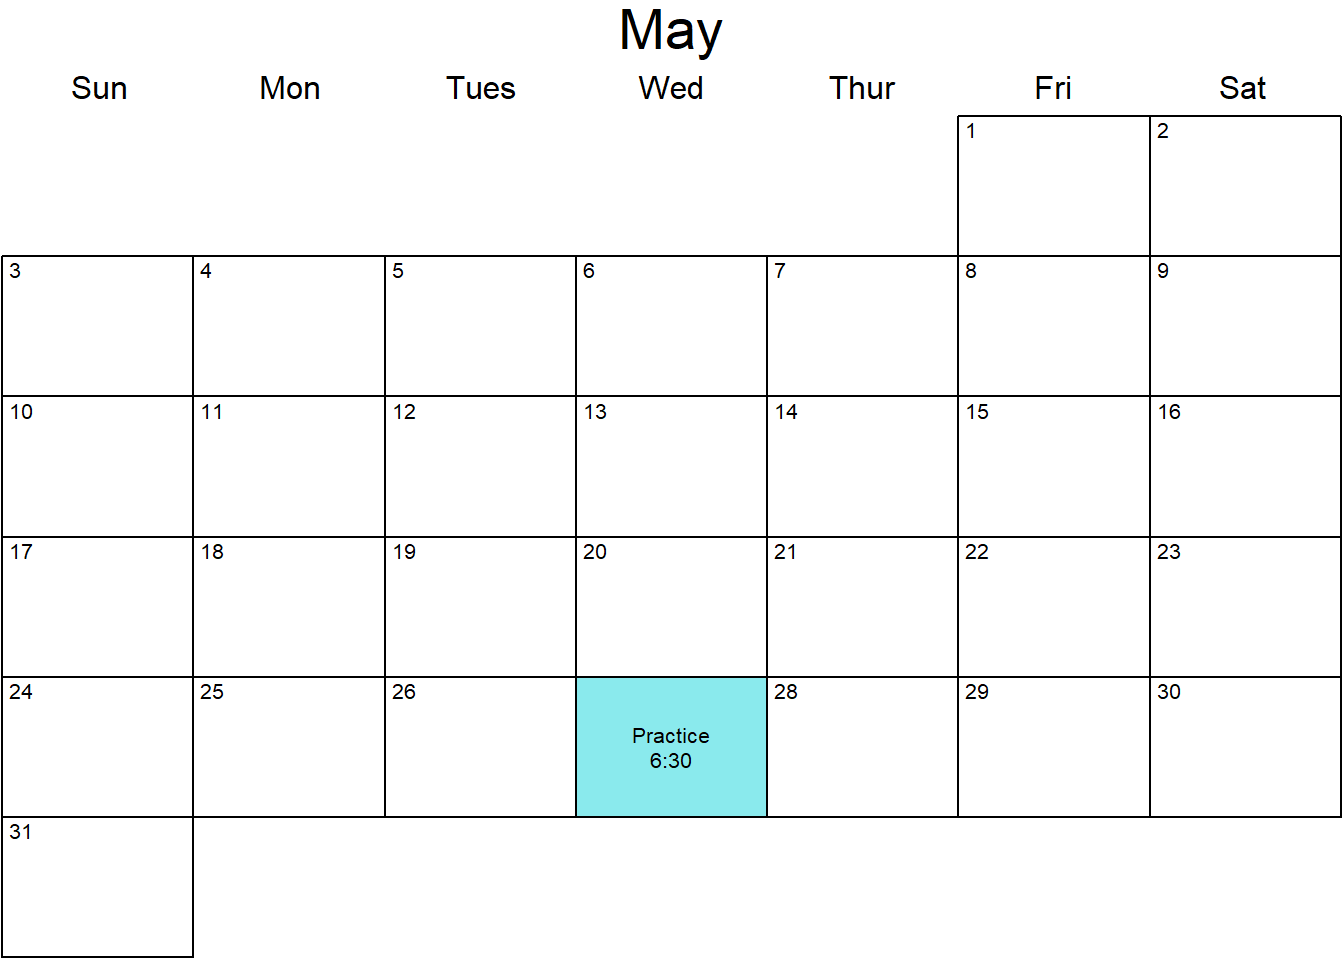
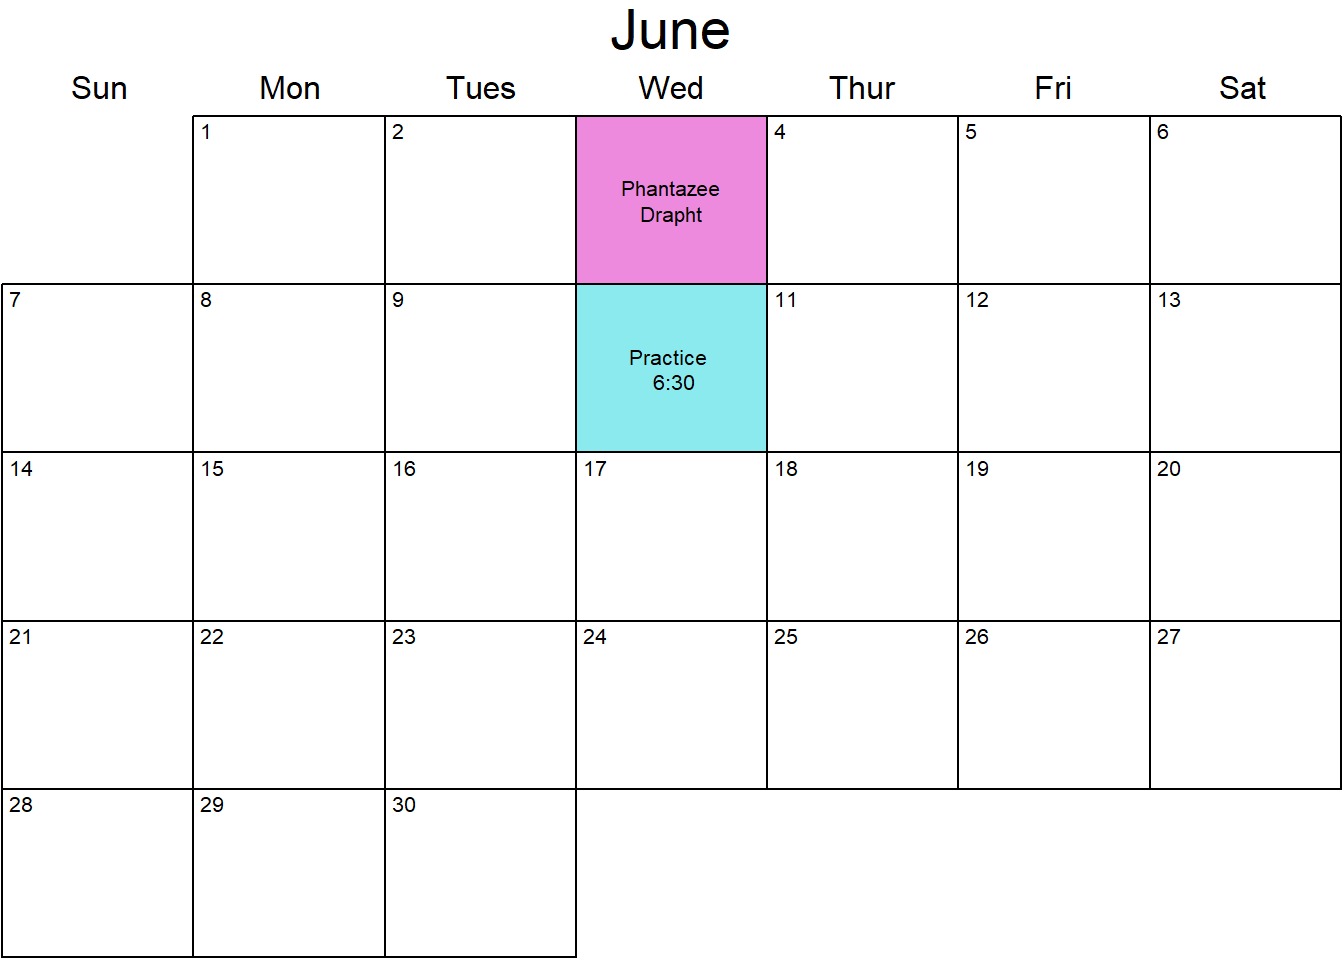
dele may from calendar & replace %b with %B (Jun -> June)

diff --git a/docs/calendar.html b/docs/calendar.html
@@ -338,7 +338,7 @@ ul.task-list li input[type="checkbox"] {
 </header>
 
 
-<p>Upcoming events as of Jun, 2026:</p>
+<p>Upcoming events as of June, 2026:</p>
 <div class="cell">
 <div class="cell-output-display">
 <div>
@@ -351,13 +351,6 @@ ul.task-list li input[type="checkbox"] {
 <div>
 <figure class="figure">
 <p><img src="calendar_files/figure-html/unnamed-chunk-1-2.png" class="img-fluid figure-img" width="672"></p>
-</figure>
-</div>
-</div>
-<div class="cell-output-display">
-<div>
-<figure class="figure">
-<p><img src="calendar_files/figure-html/unnamed-chunk-1-3.png" class="img-fluid figure-img" width="672"></p>
 </figure>
 </div>
 </div>

diff --git a/docs/phantazee.html b/docs/phantazee.html
@@ -347,8 +347,8 @@ ul.task-list li input[type="checkbox"] {
 <div id="fig-chord" class="cell-output-display quarto-float quarto-figure quarto-figure-center anchored">
 <figure class="quarto-float quarto-float-fig figure">
 <div aria-describedby="fig-chord-caption-0ceaefa1-69ba-4598-a22c-09a6ac19f8ca">
-<div class="chorddiag html-widget html-fill-item" id="htmlwidget-513922d8cdfa57957bed" style="width:100%;height:464px;"></div>
-<script type="application/json" data-for="htmlwidget-513922d8cdfa57957bed">{"x":{"matrix":[[0,1,2,0,0,0,0,2,0,0,0,0],[0,0,0,0,0,0,0,0,0,0,0,0],[3,0,0,0,0,0,0,1,2,0,0,0],[0,0,0,0,0,0,0,0,0,0,0,0],[0,0,0,0,0,0,0,0,0,0,0,0],[0,2,0,0,0,0,0,0,0,0,0,0],[0,0,0,0,0,0,0,0,0,0,0,0],[2,0,0,0,0,0,0,0,0,0,0,0],[0,0,2,0,0,0,0,0,0,0,0,0],[0,0,0,0,0,0,0,0,0,0,0,0],[0,0,0,0,0,0,0,0,0,0,0,0],[0,0,0,0,0,0,0,0,0,0,0,0]],"options":{"type":"directional","width":null,"height":null,"margin":100,"showGroupnames":true,"groupNames":["Travis","Strauss","Kyle","K&G","John-o","Jeff","Jason","Jake","Gary","Dave","Chirag","Brian"],"groupColors":["#1B9E77","#D95F02","#7570B3","#E7298A","#66A61E","#E6AB02","#A6761D","#666666"],"groupThickness":0.1,"groupPadding":0.03490658503988659,"groupnamePadding":[20,20,20,20,20,20,20,20,20,20,20,20],"groupnameFontsize":18,"groupedgeColor":null,"chordedgeColor":"#808080","categoryNames":null,"categorynamePadding":100,"categorynameFontsize":28,"showTicks":true,"tickInterval":0.1,"ticklabelFontsize":10,"fadeLevel":0.1,"showTooltips":true,"showZeroTooltips":true,"tooltipNames":["Travis","Strauss","Kyle","K&G","John-o","Jeff","Jason","Jake","Gary","Dave","Chirag","Brian"],"tooltipFontsize":12,"tooltipUnit":"","tooltipGroupConnector":" &#x25B6; ","precision":"null","clickAction":null,"clickGroupAction":null}},"evals":[],"jsHooks":[]}</script>
+<div class="chorddiag html-widget html-fill-item" id="htmlwidget-529f6eb8268e14fd879a" style="width:100%;height:464px;"></div>
+<script type="application/json" data-for="htmlwidget-529f6eb8268e14fd879a">{"x":{"matrix":[[0,1,2,0,0,0,0,2,0,0,0,0],[0,0,0,0,0,0,0,0,0,0,0,0],[3,0,0,0,0,0,0,1,2,0,0,0],[0,0,0,0,0,0,0,0,0,0,0,0],[0,0,0,0,0,0,0,0,0,0,0,0],[0,2,0,0,0,0,0,0,0,0,0,0],[0,0,0,0,0,0,0,0,0,0,0,0],[2,0,0,0,0,0,0,0,0,0,0,0],[0,0,2,0,0,0,0,0,0,0,0,0],[0,0,0,0,0,0,0,0,0,0,0,0],[0,0,0,0,0,0,0,0,0,0,0,0],[0,0,0,0,0,0,0,0,0,0,0,0]],"options":{"type":"directional","width":null,"height":null,"margin":100,"showGroupnames":true,"groupNames":["Travis","Strauss","Kyle","K&G","John-o","Jeff","Jason","Jake","Gary","Dave","Chirag","Brian"],"groupColors":["#1B9E77","#D95F02","#7570B3","#E7298A","#66A61E","#E6AB02","#A6761D","#666666"],"groupThickness":0.1,"groupPadding":0.03490658503988659,"groupnamePadding":[20,20,20,20,20,20,20,20,20,20,20,20],"groupnameFontsize":18,"groupedgeColor":null,"chordedgeColor":"#808080","categoryNames":null,"categorynamePadding":100,"categorynameFontsize":28,"showTicks":true,"tickInterval":0.1,"ticklabelFontsize":10,"fadeLevel":0.1,"showTooltips":true,"showZeroTooltips":true,"tooltipNames":["Travis","Strauss","Kyle","K&G","John-o","Jeff","Jason","Jake","Gary","Dave","Chirag","Brian"],"tooltipFontsize":12,"tooltipUnit":"","tooltipGroupConnector":" &#x25B6; ","precision":"null","clickAction":null,"clickGroupAction":null}},"evals":[],"jsHooks":[]}</script>
 </div>
 <figcaption class="quarto-float-caption-bottom quarto-float-caption quarto-float-fig" id="fig-chord-caption-0ceaefa1-69ba-4598-a22c-09a6ac19f8ca">
 Figure&nbsp;1: Total drapht pick trades (2026–) Chord diagram
@@ -366,7 +366,7 @@ Note
 </div>
 </div>
 <div class="callout-body-container callout-body">
-<p><a href="#fig-chord" class="quarto-xref">Figure&nbsp;1</a> trade chart as of Jun, 2026 – <code>total</code> only reflects <u>incoming</u> picks – true total number of overall picks swapped is not reflected in the <code>total</code> “hover” reported number</p>
+<p><a href="#fig-chord" class="quarto-xref">Figure&nbsp;1</a> trade chart as of June, 2026 – <code>Name (total):</code> value only reflects <u>incoming</u> picks – true total number of overall picks swapped is not reflected in the <code>Name (total):</code> “hover” reported number</p>
 </div>
 </div>
 <div class="cell" data-layout-align="default">

diff --git a/docs/discography.html b/docs/discography.html
@@ -352,8 +352,8 @@ ul.task-list li input[type="checkbox"] {
 <h2 class="anchored" data-anchor-id="songs-played">Songs played</h2>
 <div class="cell">
 <div class="cell-output-display">
-<div class="datatables html-widget html-fill-item" id="htmlwidget-830388fdc6fc8687dc52" style="width:100%;height:auto;"></div>
-<script type="application/json" data-for="htmlwidget-830388fdc6fc8687dc52">{"x":{"filter":"none","vertical":false,"data":[["Peter Gunn Theme","Sharp Dressed Man","Workin' Man Blues","Night of the Living Chimichanga","Hot Tub","Tight Pants","Mary had a Little Lamb","Folsom Prison","Color of Her Eyes","Stuck in the Middle with You","Eastbound &amp; Down","Cream","Keep your Hands to Yourself","Fast as You"],[" Henry Mancini","ZZ Top","Merle Haggard","The Crawlers","Kitty Wampas","Howard &amp; the White Boys"," Stevie Ray Vaughn"," Johnny Cash"," Gear Daddies"," Stealers Wheel"," Jerry Reed"," Prince"," Georgia Satelites"," Dwight Yoakam"]],"container":"<table class=\"display\">\n  <thead>\n    <tr>\n      <th>Song<\/th>\n      <th>Band<\/th>\n    <\/tr>\n  <\/thead>\n<\/table>","options":{"pageLength":5,"lengthMenu":[5,10,15,20,25],"columnDefs":[{"name":"Song","targets":0},{"name":"Band","targets":1}],"order":[],"autoWidth":false,"orderClasses":false}},"evals":[],"jsHooks":[]}</script>
+<div class="datatables html-widget html-fill-item" id="htmlwidget-559856d5a4ad2dd1246c" style="width:100%;height:auto;"></div>
+<script type="application/json" data-for="htmlwidget-559856d5a4ad2dd1246c">{"x":{"filter":"none","vertical":false,"data":[["Peter Gunn Theme","Sharp Dressed Man","Workin' Man Blues","Night of the Living Chimichanga","Hot Tub","Tight Pants","Mary had a Little Lamb","Folsom Prison","Color of Her Eyes","Stuck in the Middle with You","Eastbound &amp; Down","Cream","Keep your Hands to Yourself","Fast as You"],[" Henry Mancini","ZZ Top","Merle Haggard","The Crawlers","Kitty Wampas","Howard &amp; the White Boys"," Stevie Ray Vaughn"," Johnny Cash"," Gear Daddies"," Stealers Wheel"," Jerry Reed"," Prince"," Georgia Satelites"," Dwight Yoakam"]],"container":"<table class=\"display\">\n  <thead>\n    <tr>\n      <th>Song<\/th>\n      <th>Band<\/th>\n    <\/tr>\n  <\/thead>\n<\/table>","options":{"pageLength":5,"lengthMenu":[5,10,15,20,25],"columnDefs":[{"name":"Song","targets":0},{"name":"Band","targets":1}],"order":[],"autoWidth":false,"orderClasses":false}},"evals":[],"jsHooks":[]}</script>
 </div>
 </div>
 </section>